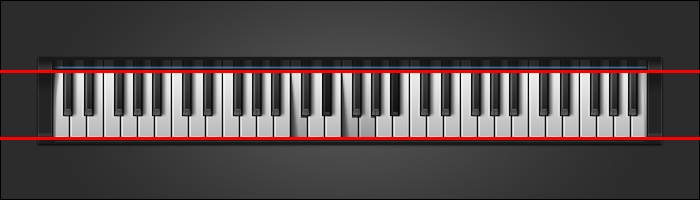
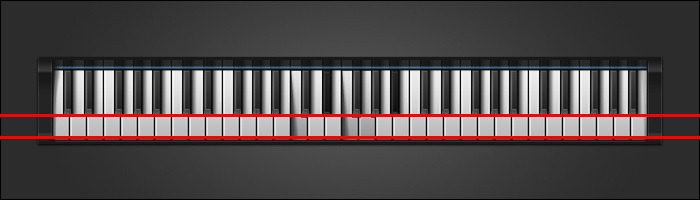
new convex hull

Changed region(s): [[0.0, 0.66, 1.0, 0.72], [0.0, 0.54, 1.0, 0.6], [0.0, 0.33, 1.0, 0.39]]

diff --git a/exp/edgedetect.py b/exp/edgedetect.py
@@ -11,20 +11,20 @@ img = cv2.imread('pressedkeyboard.png')
 
 # Convert the img to grayscale
 gray = cv2.cvtColor(img, cv2.COLOR_BGR2GRAY)
+print(np.max(gray),np.min(gray))
+blur = gray
+#blur = cv2.GaussianBlur(gray,(5,5),sigmaX=500,sigmaY=500)
+#cv2.imwrite('linesDetectedblur.jpg', blur)
 
-#blur = gray
-blur = cv2.GaussianBlur(gray,(5,5),sigmaX=500,sigmaY=500)
-cv2.imwrite('linesDetectedblur.jpg', blur)
-
+ret, thresh = cv2.threshold(blur,126,255,cv2.THRESH_BINARY)
+cv2.imwrite('linesDetectededgesret.jpg', thresh)
 # Apply edge detection method on the image
-edges = cv2.Canny(blur, 50, 150, apertureSize=3)
+edges = cv2.Canny(thresh, 50, 150, apertureSize=3)
 cv2.imwrite('linesDetectededges.jpg', edges)
 
 # This returns an array of r and theta values
 lines = cv2.HoughLines(edges, 1, np.pi/180, 200)
 
-# The below for loop runs till r and theta values
-# are in the range of the 2d array
 for r_theta in lines:
 	arr = np.array(r_theta[0], dtype=np.float64)
 	r, theta = arr
@@ -61,3 +61,47 @@ for r_theta in lines:
 # written on a new image houghlines.jpg
 cv2.imwrite('linesDetected.jpg', img)
 cv2.imwrite('linesDetectedgray.jpg', gray)
+
+#hull = cv2.convexHull(edges)
+#cv2.drawContours(img, [hull], -1, (255, 0, 0), 2)
+# Display the final convex hull image
+#cv2.imshow('ConvexHull', img)
+#cv2.waitKey(0)
+# The below for loop runs till r and theta values
+# are in the range of the 2d array
+#for r_theta in lines:
+# 	arr = np.array(r_theta[0], dtype=np.float64)
+# 	r, theta = arr
+# 	# Stores the value of cos(theta) in a
+# 	a = np.cos(theta)
+
+# 	# Stores the value of sin(theta) in b
+# 	b = np.sin(theta)
+
+# 	# x0 stores the value rcos(theta)
+# 	x0 = a*r
+
+# 	# y0 stores the value rsin(theta)
+# 	y0 = b*r
+
+# 	# x1 stores the rounded off value of (rcos(theta)-1000sin(theta))
+# 	x1 = int(x0 + 1000*(-b))
+
+# 	# y1 stores the rounded off value of (rsin(theta)+1000cos(theta))
+# 	y1 = int(y0 + 1000*(a))
+
+# 	# x2 stores the rounded off value of (rcos(theta)+1000sin(theta))
+# 	x2 = int(x0 - 1000*(-b))
+
+# 	# y2 stores the rounded off value of (rsin(theta)-1000cos(theta))
+# 	y2 = int(y0 - 1000*(a))
+
+# 	# cv2.line draws a line in img from the point(x1,y1) to (x2,y2).
+# 	# (0,0,255) denotes the colour of the line to be
+# 	# drawn. In this case, it is red.
+# 	cv2.line(img, (x1, y1), (x2, y2), (0, 0, 255), 2)
+
+# # All the changes made in the input image are finally
+# # written on a new image houghlines.jpg
+# cv2.imwrite('linesDetected.jpg', img)
+# cv2.imwrite('linesDetectedgray.jpg', gray)

diff --git a/exp/convexhull.py b/exp/convexhull.py
@@ -1,17 +1,27 @@
 import cv2
+import numpy as np
 # Load the image
 img1 = cv2.imread('pressedkeyboard.png')
 # Convert it to greyscale
 img = cv2.cvtColor(img1, cv2.COLOR_BGR2GRAY)
 # Threshold the image
-ret, thresh = cv2.threshold(img,190,255,0)
+ret, thresh = cv2.threshold(img,190,255,cv2.THRESH_BINARY)
+cv2.imshow("TreshHull", thresh)
 # Find the contours
 contours, hierarchy = cv2.findContours(thresh, cv2.RETR_TREE, cv2.CHAIN_APPROX_SIMPLE)
 # For each contour, find the convex hull and draw it
 # on the original image.
+hull = []
 for i in range(len(contours)):
-    hull = cv2.convexHull(contours[i])
-    cv2.drawContours(img1, [hull], -1, (255, 0, 0), 2)
+    for j in range(len(contours[i])):
+        #np.append(hull,contours[i][j])
+        hull.append(contours[i][j])
+        #print(contours[i][j])
+hull = np.array(hull)
+hull = cv2.convexHull(hull)
+    
+print(hull)
+cv2.drawContours(img, hull, -1, (255, 0, 0), 2)
 # Display the final convex hull image
-cv2.imshow('ConvexHull', img1)
+cv2.imshow('ConvexHull', img)
 cv2.waitKey(0)
